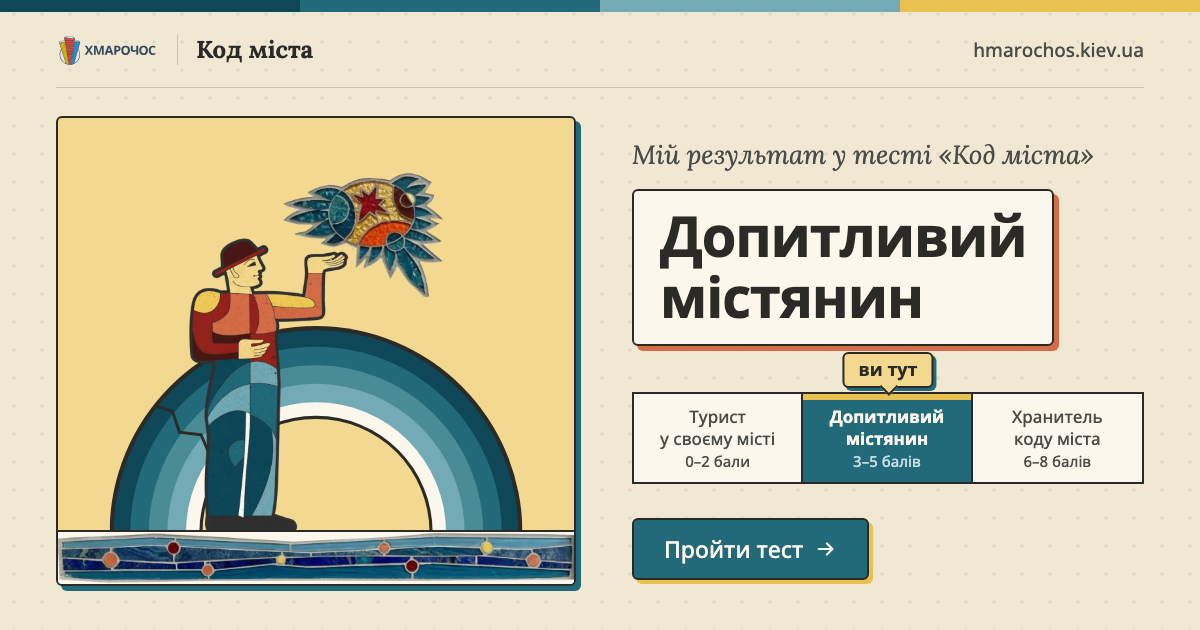
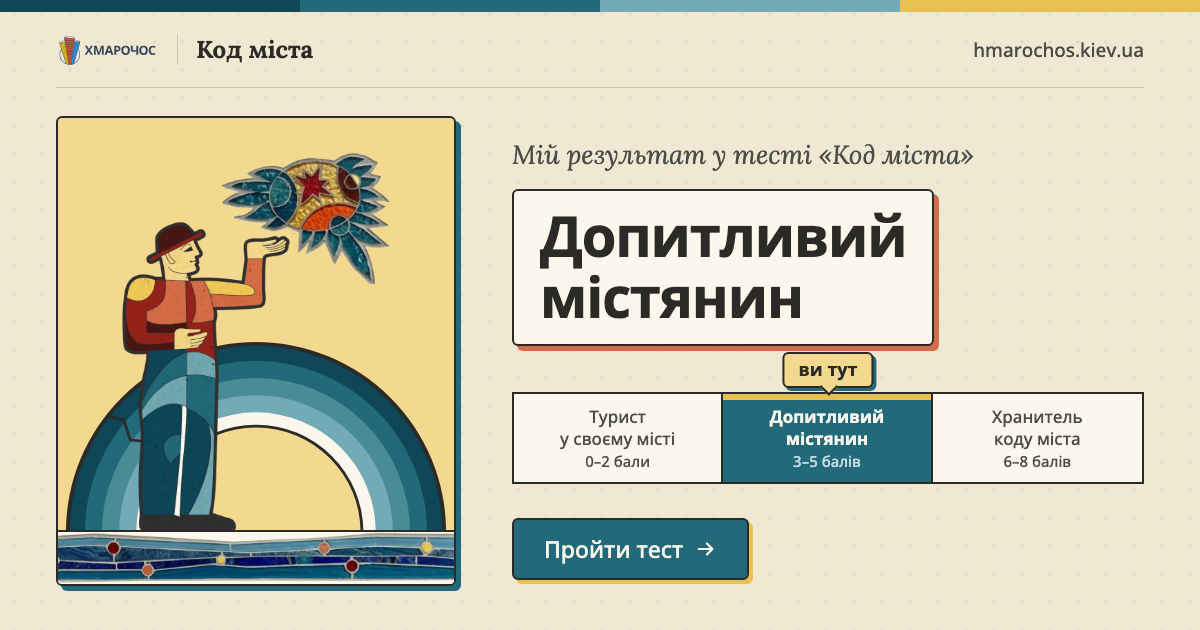
Результат: вертикальний постер з персонажем збоку від балу й звання, шкала поруч (десктоп) або під ними (телефон); діапазон балів на сторінці поширення; вужчі постери в OG рівнів

diff --git a/app/skins/veselka/veselka.css b/app/skins/veselka/veselka.css
@@ -1919,6 +1919,83 @@ body:has(.veselka.result) {
   .veselka .here { font-size: 12.5px; padding: 3px 12px 4px; }
 }
 
+/* ═══ Результат: персонаж вертикальний — постер збоку, поруч бал і звання,
+   під ними шкала рівнів. Ширина постера — під пропорції кожного персонажа. ═══ */
+.veselka .resHead {
+  --pw: 136px;
+  --ph: 178px;
+  margin-top: 24px;
+  display: grid;
+  grid-template-columns: var(--pw) minmax(0, 1fr);
+  grid-template-areas: "poster info" "scale scale";
+  column-gap: 16px;
+  align-items: center;
+  text-align: left;
+}
+.veselka .resHead.lvl-tourist { --pw: 150px; }
+.veselka .resHead.lvl-keeper { --pw: 112px; }
+.veselka .resHead .poster {
+  grid-area: poster;
+  margin: 0;
+  padding: 14px 0 0;
+  display: flex;
+  flex-direction: column;
+}
+.veselka .resHead .poster .figure {
+  height: var(--ph);
+  padding: 0 8px;
+  margin: 0;
+}
+.veselka .resHead .poster .figure img {
+  height: 100%;
+  max-height: none;
+  width: 100%;
+  object-fit: contain;
+  object-position: bottom center;
+}
+.veselka .resHead .poster .bed.riverGround img { height: 22px; object-fit: cover; }
+.veselka .resHead .poster .arch { width: 100%; bottom: 22px; }
+.veselka .resHead .resInfo {
+  grid-area: info;
+  display: flex;
+  flex-direction: column;
+  align-items: flex-start;
+  gap: 14px;
+  min-width: 0;
+}
+.veselka .resHead .resInfo .score { margin: 0; }
+.veselka.result .resHead .titlePane { margin: 0; transform: none; padding: 8px 14px 11px; }
+.veselka.result .resHead .title { font-size: 22px; line-height: 27px; }
+.veselka .resHead .scaleWrap { grid-area: scale; margin-top: 26px; }
+@media (min-width: 900px) {
+  .veselka .resHead {
+    --pw: 250px;
+    --ph: 316px;
+    margin-top: 28px;
+    column-gap: 28px;
+    grid-template-rows: 1fr auto;
+    grid-template-areas: "poster info" "poster scale";
+    align-items: end;
+  }
+  .veselka .resHead.lvl-tourist { --pw: 290px; --ph: 300px; }
+  .veselka .resHead.lvl-keeper { --pw: 200px; }
+  .veselka .resHead .poster { padding-top: 18px; }
+  .veselka .resHead .poster .figure { padding: 0 12px; }
+  .veselka .resHead .poster .bed.riverGround img { height: 30px; }
+  .veselka .resHead .poster .arch { bottom: 30px; }
+  .veselka .resHead .resInfo { gap: 16px; align-self: end; }
+  .veselka.result .resHead .titlePane { padding: 10px 18px 13px; }
+  .veselka.result .resHead .title { font-size: 30px; line-height: 36px; }
+  .veselka .resHead .scaleWrap { margin-top: 30px; align-self: end; }
+}
+@media (min-width: 900px) and (max-height: 820px) {
+  .veselka .resHead { --ph: 270px; }
+  .veselka .resHead.lvl-tourist { --ph: 260px; }
+}
+/* на сторінці поширення шкали немає — інфо стоїть по центру висоти постера */
+.veselka .resHead.noScore { grid-template-areas: "poster info"; grid-template-rows: auto; align-items: center; }
+.veselka .resHead.noScore .resInfo { align-self: center; }
+
 /* ——— 1x-екрани: контур рівно 1.5px ——— */
 @media (resolution < 1.5dppx) {
   .veselka { --lw: 1px; }

diff --git a/og-src/og.html b/og-src/og.html
@@ -50,15 +50,16 @@ body {
 
 /* рівень */
 .lvl { display: none; }
+body.tourist { --pw: 470px; } body.citizen { --pw: 400px; } body.keeper { --pw: 330px; }
 body.level .start { display: none; }
 body.level .lvl { display: block; }
-.poster { position: absolute; left: 56px; top: 116px; width: 520px; height: 470px; background: var(--mustard); border: var(--lw) solid var(--ink); border-radius: var(--r); box-shadow: var(--sh) var(--sh) 0 var(--teal-600); overflow: hidden; }
-.poster .arch { position: absolute; left: 50%; bottom: 52px; width: 80%; transform: translateX(-50%); }
-.poster .fig { position: absolute; left: 0; right: 0; bottom: 52px; height: 360px; display: flex; justify-content: center; align-items: flex-end; }
+.poster { position: absolute; left: 56px; top: 116px; width: var(--pw, 420px); height: 470px; background: var(--mustard); border: var(--lw) solid var(--ink); border-radius: var(--r); box-shadow: var(--sh) var(--sh) 0 var(--teal-600); overflow: hidden; }
+.poster .arch { position: absolute; left: 50%; bottom: 52px; width: 96%; transform: translateX(-50%); }
+.poster .fig { position: absolute; left: 0; right: 0; bottom: 52px; height: 380px; display: flex; justify-content: center; align-items: flex-end; }
 .poster .fig img { display: block; height: 100%; width: auto; max-width: 92%; object-fit: contain; object-position: bottom; }
 .poster .river { position: absolute; left: 0; right: 0; bottom: 0; height: 54px; border-top: var(--lw) solid var(--ink); background: var(--card); }
 .poster .river img { display: block; width: 100%; height: 100%; object-fit: cover; }
-.text { position: absolute; left: 632px; right: 56px; top: 88px; bottom: 0; display: flex; flex-direction: column; justify-content: center; align-items: flex-start; }
+.text { position: absolute; left: calc(56px + var(--pw, 420px) + 56px); right: 56px; top: 88px; bottom: 0; display: flex; flex-direction: column; justify-content: center; align-items: flex-start; }
 .text .kicker { margin: 0; font-family: "Lora", serif; font-style: italic; font-size: 26px; color: var(--ink-2); }
 .text .plate { margin-top: 18px; padding: 14px 26px 18px; background: var(--card); box-shadow: var(--sh) var(--sh) 0 var(--terracotta); }
 .text h1 { margin: 0; font-weight: 700; font-size: 56px; line-height: 1.08; letter-spacing: -0.02em; white-space: nowrap; }
@@ -130,7 +131,7 @@ body.level .lvl { display: block; }
   const slug = new URLSearchParams(location.search).get("l");
   const lv = LV[slug];
   if (lv) {
-    document.body.classList.add("level");
+    document.body.classList.add("level", slug);
     document.getElementById("char").src = `../public/art/char-${slug}.webp`;
     const h = document.getElementById("title");
     lv.title.forEach((line, k) => { if (k) h.appendChild(document.createElement("br")); h.appendChild(document.createTextNode(line)); });

diff --git a/app/skins/veselka/VeselkaSkin.tsx b/app/skins/veselka/VeselkaSkin.tsx
@@ -462,23 +462,34 @@ function ResultBody({ level, score, onRestart }: { level: Level; score?: number;
           <Wordmark />
           <SiteLink />
         </header>
-        <section className={`poster pane lvl-${level.slug}`}>
-          <Arch />
-          <Figure level={level} />
-          <Bed src="/art/deco-river-h.webp" alt="" cls="riverGround flow" />
-          {score !== undefined && (
-            <div className="score" aria-label={`${score} з ${questions.length} правильних`}>
-              <b>
-                <CountUp to={score} />
-              </b>
-              <small>з {questions.length}</small>
+        <div className={`resHead lvl-${level.slug}${score === undefined ? " noScore" : ""}`}>
+          <section className="poster pane">
+            <Arch />
+            <Figure level={level} />
+            <Bed src="/art/deco-river-h.webp" alt="" cls="riverGround flow" />
+          </section>
+          <div className="resInfo">
+            {score !== undefined ? (
+              <div className="score" aria-label={`${score} з ${questions.length} правильних`}>
+                <b>
+                  <CountUp to={score} />
+                </b>
+                <small>з {questions.length}</small>
+              </div>
+            ) : (
+              <div className="score" aria-label={`${level.range} з ${questions.length}`}>
+                <b>
+                  {level.min}–{level.max}
+                </b>
+                <small>з {questions.length}</small>
+              </div>
+            )}
+            <div className="titlePane pane mid">
+              <h1 className="title">{level.title.replace(/ у /g, " у\u00a0")}</h1>
             </div>
-          )}
-        </section>
-        <div className="titlePane pane mid">
-          <h1 className="title">{level.title}</h1>
+          </div>
+          {score !== undefined && <LevelScale current={level} />}
         </div>
-        {score !== undefined && <LevelScale current={level} />}
         <section className="pane resCard">
           <p className="lead">{level.description}</p>
           {score !== undefined && <Share url={shareUrl} text={level.shareText} label={UI.shareResult} />}

diff --git a/app/share.ts b/app/share.ts
@@ -14,4 +14,4 @@ export function resultShareUrl(slug: string): string {
 }
 
 /** Версія OG-картинок: міняємо, коли картинки перемальовано, щоб соцмережі взяли нові. */
-export const OG_VERSION = "3";
+export const OG_VERSION = "4";

diff --git a/docs/style-veselka.md b/docs/style-veselka.md
@@ -50,6 +50,8 @@
 
 «Ви тут» — гірчична наліпка з ромбиком-вказівником і бірюзовою тінню; поточна комірка шкали має гірчичну смужку зверху. Те саме — на OG-картинках рівнів. Адреси OG мають `?v=OG_VERSION` (app/share.ts) — підняти номер після перемальовування, щоб соцмережі взяли нові.
 
+Результат: персонажі вертикальні, тому постер стоїть збоку. Ліворуч вузький постер (гірчичне тло, арка з тріщиною, персонаж на мозаїчній річці), праворуч бал «N з 8» і звання, під ними шкала рівнів (на десктопі шкала в правій колонці, на телефоні — на всю ширину). Ширина постера своя для кожного персонажа: турист 150/290px, містянин 136/250px, хранителька 112/200px (телефон/десктоп). На сторінці поширення замість балу — діапазон рівня «6–8 з 8». OG рівнів — так само: вужчий постер під персонажа (470/400/330px).
+
 ## Де підкрутити
 
 - Усе стало «криво» → `.veselka { --tilt: 0 }`.
